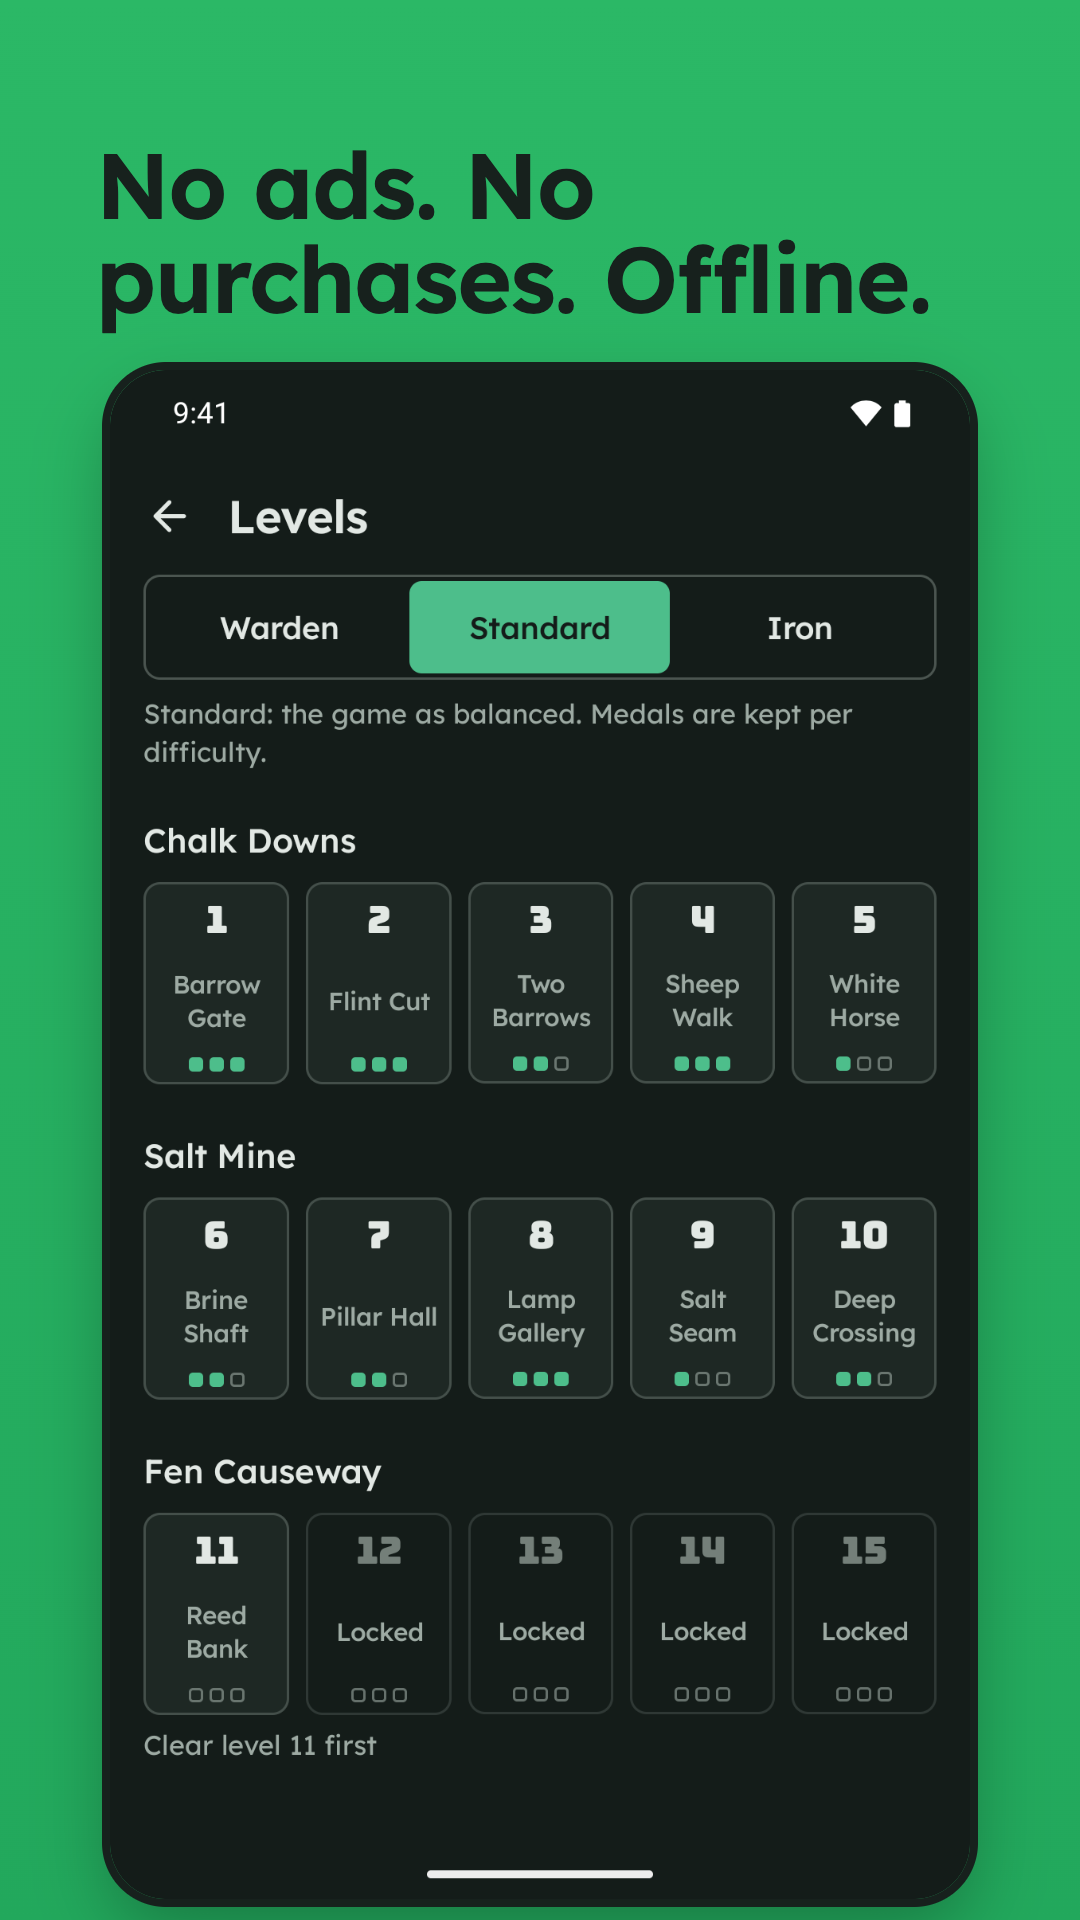
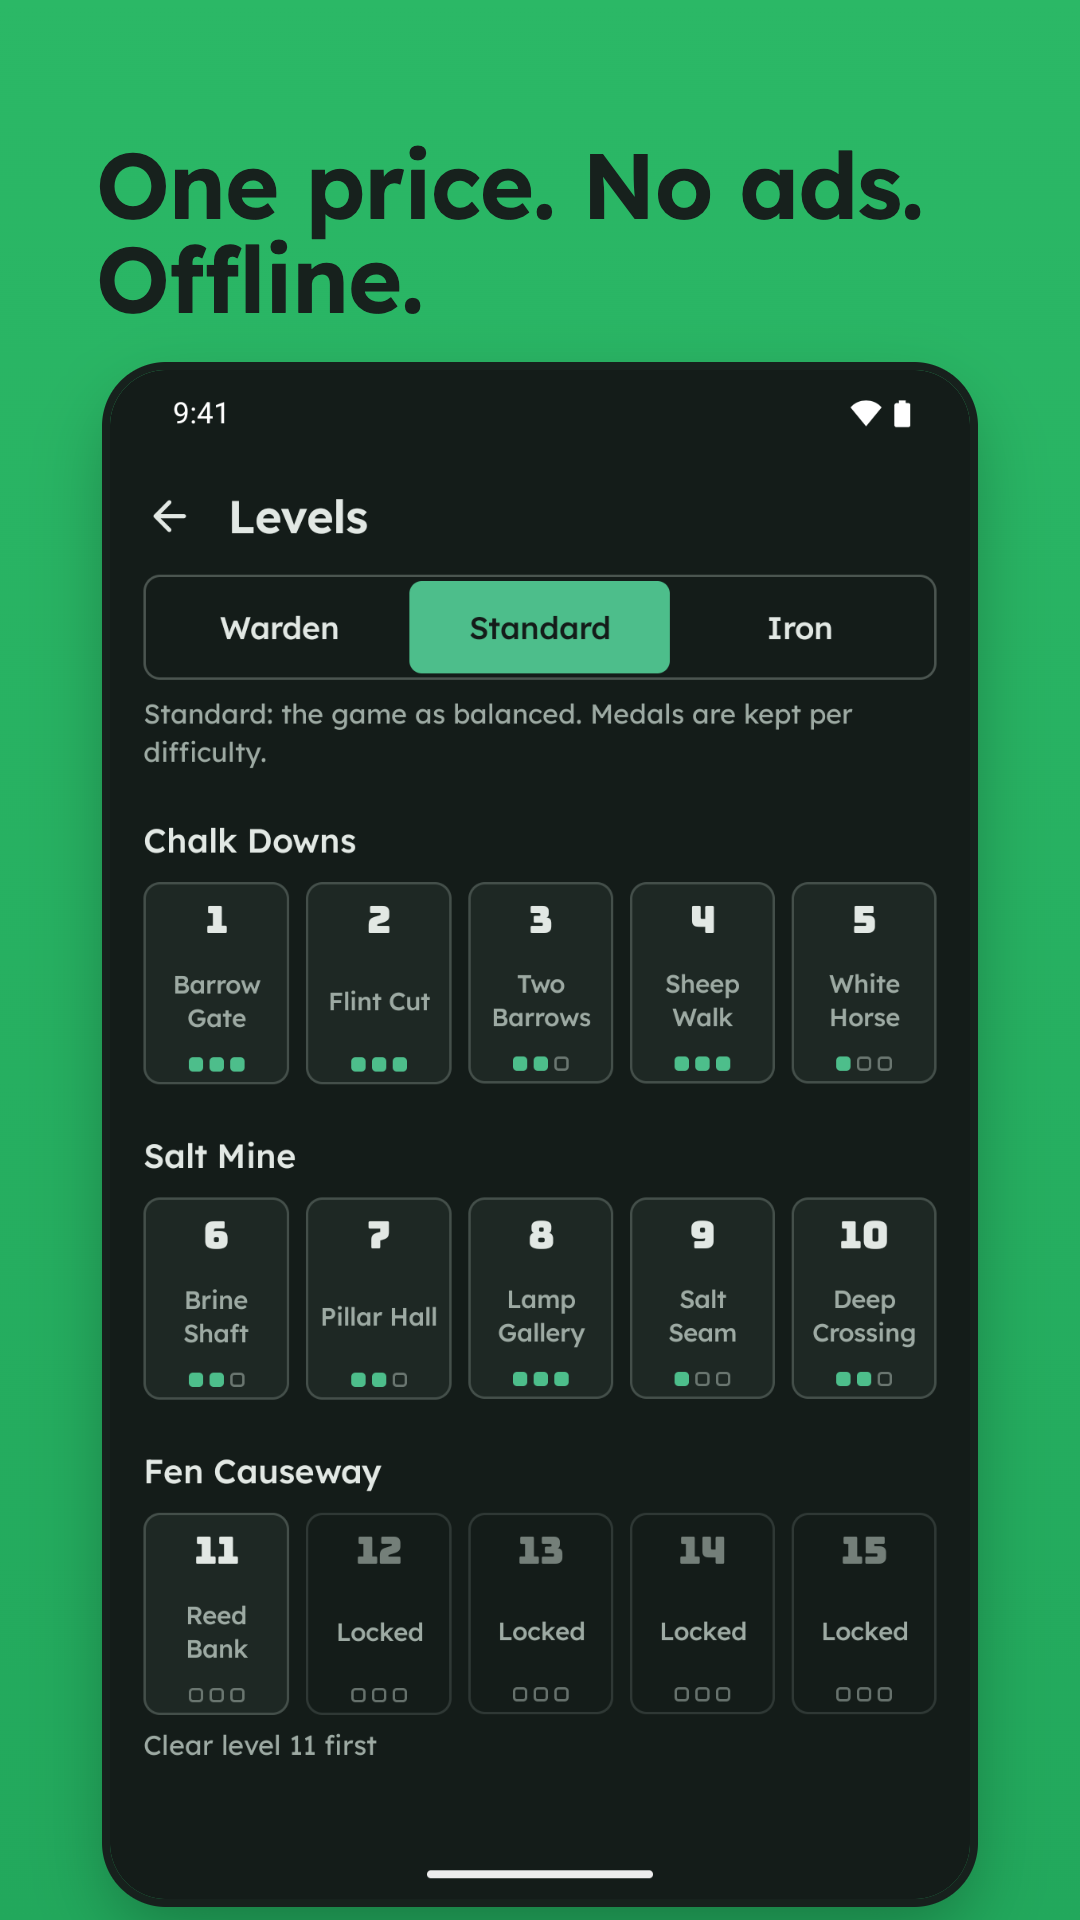
Store QA: accurate listing claims, clearer caption 6, policy and landing page wording

Changed region(s): [[0.0917, 0.0625, 0.8556, 0.1875]]

diff --git a/docs/privacy-policy.html b/docs/privacy-policy.html
@@ -36,8 +36,8 @@ You can copy it out yourself with Settings, Export save, which hands one file to
 the app you choose, and bring it back with Import save.</p>
 
 <h2>Permissions</h2>
-<p>Snarewall requests no Android permissions. It has no internet permission, so it
-cannot send your data off the device even in principle. You can confirm this on
+<p>Snarewall requests no Android permissions. It has no internet permission, so the app
+itself cannot send your data off the device. You can confirm this on
 the Play Store listing under "App permissions".</p>
 
 <h2>Third parties</h2>

diff --git a/docs/index.html b/docs/index.html
@@ -194,7 +194,7 @@
       <figure>
         <img class="shot" src="shots/06-levels-and-medals.png" width="540" height="960" decoding="async"
              alt="The level select in dark theme, three regions with medal pips under each level">
-        <figcaption>Warden, Standard and Iron, with bronze, silver and gold par scores.</figcaption>
+        <figcaption>Warden, Standard and Iron, each with bronze, silver and gold medals.</figcaption>
       </figure>
     </div>
   </section>

diff --git a/store/listing.md b/store/listing.md
@@ -15,7 +15,7 @@ Build walls that bend the enemy route and chain traps. No ads, no IAP, offline
 ## Full description
 <!-- at most 4000 characters. Plain paragraphs and CAPITALISED headings; Play renders no markdown.
      Say what the app does, what it stores, that it works offline, and that it is paid once. -->
-Snarewall is a maze tower defense where your walls decide the enemy path. Every level is open floor: drag a wall into place and the route line redraws while your finger is still down, with the change in steps shown at the keep, so you see the new path before the first raider arrives. A wall that would cut the keep off entirely is refused.
+Snarewall is a maze tower defense where your walls decide the enemy path. Every level is open ground with a few fixed rocks, not a set track: drag a wall into place and the route line redraws while your finger is still down, with the change in steps shown at the keep, so you see the new path before the first raider arrives. A wall that would cut the keep off entirely is refused.
 
 Chain your traps. A pusher shoves raiders onto a deadfall. An oil slick next to an ember grate carries its fire. A frost vent sets up the shatter hammer. A snare net holds enemies on a spike plate. Linked traps show a mark between them, so you know a combo is live.
 
@@ -23,7 +23,7 @@ One-time purchase. No ads, no subscription, no account. Works fully offline.
 
 WHAT YOU GET
 - 15 handmade levels across 3 regions: Chalk Downs, Salt Mine and Fen Causeway
-- 3 difficulties on every level, with par scores for bronze, silver and gold medals
+- 3 difficulties on every level: clear a level for bronze, beat its par scores for silver and gold
 - 10 traps, each with one upgrade, and 4 visible combos
 - 12 enemy types that punish lazy mazes: diggers tunnel under a long detour, jumpers hop a wall one block thick, flyers ignore walls, sappers knock one down
 - A daily endless map built from the UTC date, so everyone playing that day gets the same board, traps and waves, with your best score kept for every day
@@ -32,7 +32,7 @@ WHAT YOU GET
 - Export your save file through the share sheet and import it again from any file
 
 NOTHING ELSE TO BUY
-There are no in-app purchases, no premium currency and no energy timers. Every trap, enemy, level and difficulty is in the game from the first launch. There is no login and the app has no internet permission, so nothing about your play leaves your phone unless you send the save file yourself.
+There are no in-app purchases, no premium currency and no energy timers. Every trap, enemy, level and difficulty is in the game you buy. Levels open as you clear them, never by paying. There is no login and the app has no internet permission, so the app itself never sends your play anywhere.
 
 ROOM ON A TABLET
 On a tablet or an unfolded phone the board sits beside the trap tray, so the maze gets the room.

diff --git a/README.md b/README.md
@@ -1,6 +1,6 @@
 # Snarewall
 
-Snarewall is a paid, fully offline maze tower defense for Android, for players who like to plan before they fight. Every level is open floor: the player places walls, a live route preview (the exact path the enemies will walk) redraws while the wall is still under the finger, and ten traps chain into four visible combos against twelve enemy types, including diggers and jumpers that punish thin mazes. Fifteen handmade levels in three regions, three difficulties with par medals, a daily endless map generated from the UTC date, save file export and import, light and dark themes and a two-pane tablet layout.
+Snarewall is a paid, fully offline maze tower defense for Android, for players who like to plan before they fight. Every level is open ground with a few fixed rocks: the player places walls, a live route preview (the exact path the enemies will walk) redraws while the wall is still under the finger, and ten traps chain into four visible combos against twelve enemy types, including diggers and jumpers that punish thin mazes. Fifteen handmade levels in three regions, three difficulties with par medals, a daily endless map generated from the UTC date, save file export and import, light and dark themes and a two-pane tablet layout.
 
 Everything runs on the device. The app declares no network permission and sends nothing anywhere.
 
